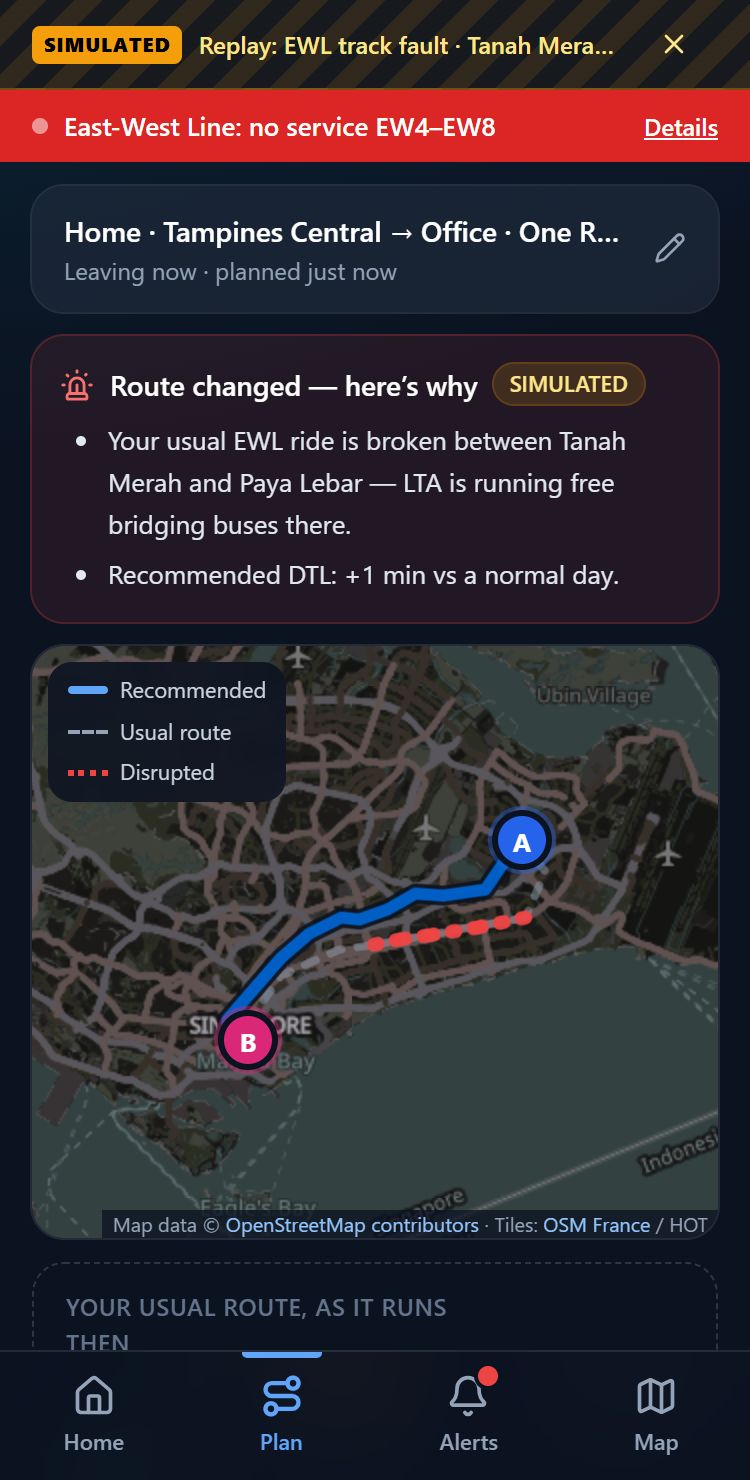
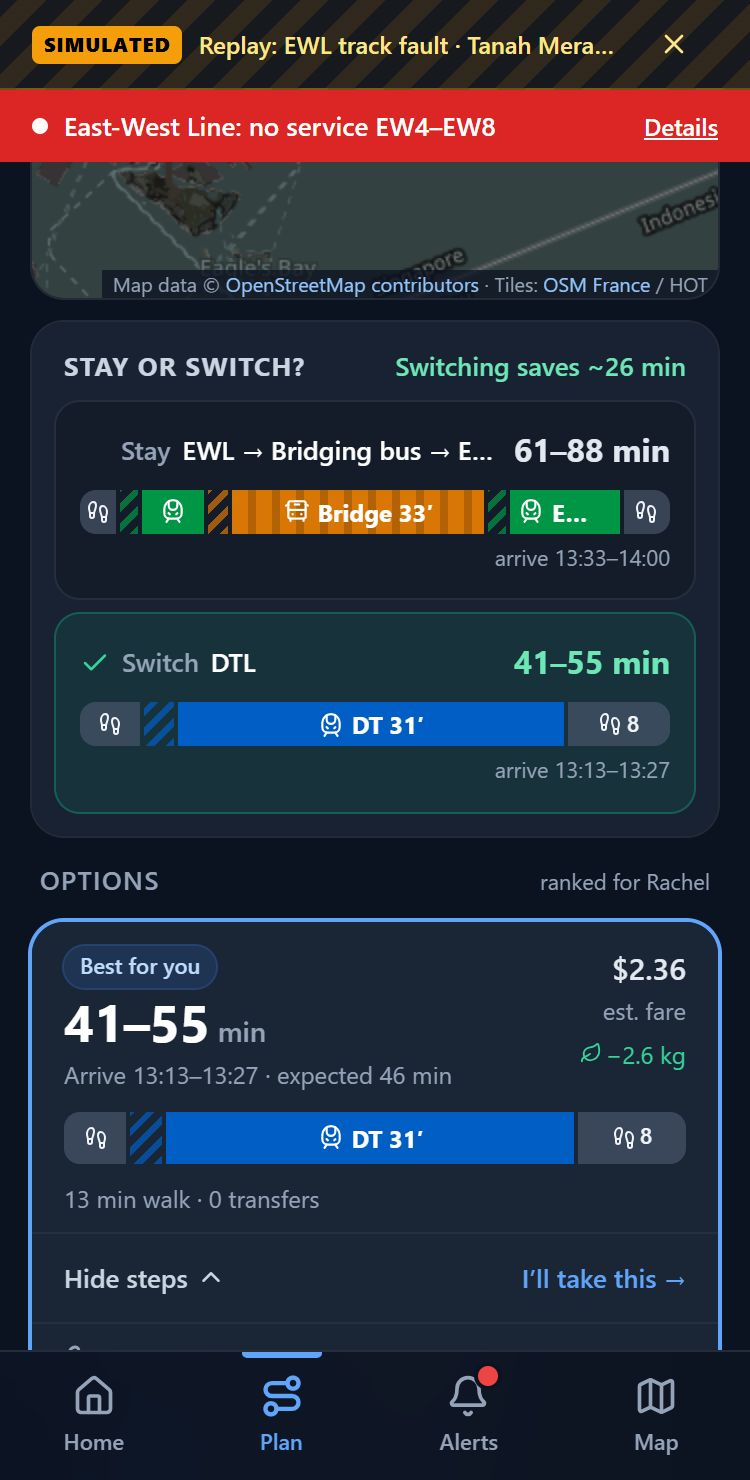
docs+ui: interaction-design mapping in WRITEUP, trip mode in demo GIF and stills; toasts move out of the thumb zone
Claude-Session: https://claude.ai/code/session_01Axb3RAMDN6seR8pfgjzdvZ

diff --git a/client/src/components/Layout/Shell.tsx b/client/src/components/Layout/Shell.tsx
@@ -87,7 +87,7 @@ function StatusBanners() {
 function Toasts() {
   const { toasts, dismissToast } = useStore();
   return (
-    <div className="pointer-events-none fixed inset-x-0 bottom-20 z-[1002] flex flex-col items-center gap-2 px-4">
+    <div className="pointer-events-none fixed inset-x-0 z-[1002] flex flex-col items-center gap-2 px-4" style={{ top: 'calc(var(--banner-h, 0px) + 10px)' }}>
       {toasts.map((t) => (
         <button
           key={t.id}

diff --git a/scripts/make-gif.py b/scripts/make-gif.py
@@ -15,7 +15,7 @@ for f in files:
 frames[0].save("docs/demo.gif", save_all=True, append_images=frames[1:], duration=durations, loop=0, optimize=True)
 print("docs/demo.gif", os.path.getsize("docs/demo.gif") // 1024, "KB,", len(frames), "frames")
 
-stills = {"home-live": "home", "home-sim": "home-sim", "plan-why": "plan", "alerts-disruption": "alerts", "map-crowd": "map"}
+stills = {"home-live": "home", "home-sim": "home-sim", "plan-stay": "plan", "trip": "trip", "alerts-disruption": "alerts", "map-crowd": "map"}
 for f in files:
     for key, name in stills.items():
         if re.search(rf"\d+-{key}-h", f):

diff --git a/README.md b/README.md
@@ -17,9 +17,9 @@ NEBULA X 2026 · Problem Statement 2 — Smart Commuter Companion · built for *
 　＼二つ
 ```
 
-| Normal day: all clear | EWL fault (replay): one-line action | Why it changed: usual vs new route | Alerts: live feed + labelled replay |
-|---|---|---|---|
-| ![Home](docs/home.jpg) | ![Home, disrupted](docs/home-sim.jpg) | ![Plan](docs/plan.jpg) | ![Alerts](docs/alerts.jpg) |
+| Normal day: leave as usual | EWL fault (replay): one action | Stay or switch? | Trip mode | Network + live crowding |
+|---|---|---|---|---|
+| ![Home](docs/home.jpg) | ![Home, disrupted](docs/home-sim.jpg) | ![Stay or switch](docs/plan.jpg) | ![Trip](docs/trip.jpg) | ![Map](docs/map.jpg) |
 
 - **Demo walkthrough:** [`docs/demo.gif`](docs/demo.gif), a phone-sized capture of the journey below.
 - **Write-up** (persona, architecture, assumptions, limitations, how every number was measured): [`WRITEUP.md`](WRITEUP.md)
@@ -30,7 +30,11 @@ NEBULA X 2026 · Problem Statement 2 — Smart Commuter Companion · built for *
 
 - **Proactive commute verdict.** The Home screen re-plans Rachel's saved commute every 60 s against live conditions. It shows one of three states: **All clear**, **Heads-up**, or **Take X today**. She only gets the red card when her trip gets worse by more than her own threshold (10 min by default). She can opt in to a device notification when that happens.
 - **Door-to-door route planning that reacts to the network.** It combines rail, bus and walking, and each option carries a **time range**, not a single number. Walking legs are routed on OpenStreetMap footpaths, and bus waits come from live LTA arrivals. When conditions change, the plan changes and **says why**.
-- **Visual trade-off.** The map shows the recommended route, your usual route (dashed), and the disrupted stretch (red). Every option shows expected arrival, fare estimate, crowding at boarding, live bus load and CO₂ saved.
+- **Visual trade-off.** A **Stay or switch?** card puts your usual route (as it runs today) next to the recommendation, each with a proportional walk/wait/ride bar and an arrival window. The map shows both routes with the disrupted stretch in red. Every option shows expected arrival, fare estimate, crowding at boarding, live bus load and CO₂ saved.
+- **Best time to leave.** A one-glance strip of LTA's 30-min crowd forecast for your boarding platform, e.g. "Crowded when you board · moderate at 8:30 am".
+- **Trip mode for the platform.** "I'll take this" opens step-by-step guidance with big text and a thumb-zone *Next* button. It shows a live bus countdown at your stop and watches the rest of your route: *"Disruption ahead → Re-plan from here"*. It keeps working with no signal.
+- **Inspectable reasoning.** Every alert card carries a one-line source (e.g. `TrainServiceAlerts · EWL EW4–EW8 · Status 2`, `PCDForecast · Tampines · level h`), so you can check why the app said what it said.
+- **Your own commute.** Rachel is a demo persona; set your own home, work, days and times, or switch to Arjun / Mdm Lim.
 - **Planned and unplanned events.**
   - Unplanned: live `TrainServiceAlerts` affected segments block or slow those rail edges. LTA's own mitigation (free public bus stations and bridging buses) is read from the feed and routed on.
   - Planned: the notice stream (e.g. today's real *"Bukit Panjang LRT closed on 20 Sep"*) is classified and checked against your route.
@@ -88,9 +92,10 @@ Tested: a fresh `git clone` → `pnpm install` → `pnpm start` with an empty ca
 3. **Home** turns red: **Take DTL today**, with the reason in one line and the first instruction ("Walk 5 min, then Downtown Line from Tampines to Telok Ayer").
 4. Tap **Show me the new route**. The map draws the usual EWL route dashed with the cut segment in red, next to the recommended route. The *Route changed — here's why* panel explains the change. Each option shows a time range, live bus ETA and load, and crowding.
 5. Back in **Alerts**, switch to **EWL signalling fault (+20 min delays)**. It is now a *delay*, not a cut, and the engine compares it against Rachel's 10-min threshold. Open the persona switcher (*Planning for Rachel ▾*) to try a 5-min or 20-min threshold and see when it stops interrupting.
-6. **Map** tab: every MRT/LRT station is coloured by **live** LTA crowd level. Search a stop (e.g. `Raffles Pl`, `75009`) or zoom in and tap a green stop for live arrivals.
-7. Stop the simulation with the ✕ on the amber banner.
-8. **Planned works, from a real LTA notice (not simulated).** The 19 Sep live feed announces that the *Bukit Panjang LRT will be closed on 20 Sep and 27 Sep 2026*. Go to **Plan**, set From: `Senja` (Senja LRT), To: `Choa Chu Kang MRT`, **Tomorrow at 08:00**, then tap **Plan**. You get *"Planned closure: Bukit Panjang LRT is closed on Sun, 20 Sept for renewal works — shuttle buses replace it · Recommended Bus 190"*, with the usual LRT ride dashed on the map. This is date-aware: leave today and the LRT is used as normal. Once that notice has left the live feed, use the Alerts replay **Planned: Bukit Panjang LRT closed tomorrow**. It re-issues the same notice text with rolling dates and is labelled SIMULATED.
+6. On the new route, tap **I'll take this →** to open **Trip mode**: the current step in big type, the next step, and a live bus countdown where there is a bus. It re-checks the remaining legs against the live feed.
+7. **Map** tab: the MRT/LRT network is drawn in line colours, with any disrupted segment in red. Every station is filled by its **live** LTA crowd level. Search a stop (e.g. `Raffles Pl`, `75009`) or zoom in and tap a green stop for live arrivals.
+8. Stop the simulation with the ✕ on the amber banner.
+9. **Planned works, from a real LTA notice (not simulated).** The 19 Sep live feed announces that the *Bukit Panjang LRT will be closed on 20 Sep and 27 Sep 2026*. Go to **Plan**, set From: `Senja` (Senja LRT), To: `Choa Chu Kang MRT`, **Tomorrow at 08:00**, then tap **Plan**. You get *"Planned closure: Bukit Panjang LRT is closed on Sun, 20 Sept for renewal works — shuttle buses replace it · Recommended Bus 190"*, with the usual LRT ride dashed on the map. This is date-aware: leave today and the LRT is used as normal. Once that notice has left the live feed, use the Alerts replay **Planned: Bukit Panjang LRT closed tomorrow**. It re-issues the same notice text with rolling dates and is labelled SIMULATED.
 
 ---
 

diff --git a/WRITEUP.md b/WRITEUP.md
@@ -98,6 +98,20 @@ A deterministic rules engine. Every card traces back to a feed field and a thres
 
 **Use of AI (PS2 §3.3.1).** We deliberately used rules, not a model. Every recommendation must be explainable in one sentence, reproducible by a judge from the same feed, and must keep working offline. Nothing needs a paid API. AI (Claude Code) was used to *build* the app, not inside it.
 
+## 4b. Interaction design, mapped to the brief (§3.2.3)
+
+| Brief asks for | What's on screen |
+|---|---|
+| Route on a map, affected portion distinguished | Route map: recommended route solid in line colours, usual route dashed, disrupted stretch as a red dotted overlay with a tooltip ("No train service"). The Map tab draws the whole MRT/LRT network in line colours with disrupted segments in red. |
+| Alternative shown against the original | **Stay or switch?** card: two rows (usual-as-it-runs-today vs recommended), each with a proportional journey bar, a time range and an arrival window. The headline states the saving, or "Your usual route is cut". |
+| Crowding readable in one second (3-level) | Every crowd reading uses the same three-bar glyph plus a word (Quiet / Moderate / Crowded), never colour alone. The Home crowd strip shows LTA's 30-min forecast for the boarding platform around your departure, with your slot outlined and a quieter slot suggested. |
+| Time and delay cost obvious | Options lead with a range ("41–55 min") and an arrival window; the journey bar splits walk / wait (hatched) / ride. Delays show as "+N min" and blocked legs are struck through. |
+| Works on a phone, in motion, one hand | 375 px first layout, bottom nav, ≥ 44 px touch targets. Primary actions sit in the thumb zone. **Trip mode** gives one step at a time in 22 px type and auto-advances by elapsed time when there's no signal. |
+| Every visual element earns its place | The hero shows one verdict, one instruction, one arrival time. The reroute is not repeated as a card. Low-priority notices collapse into "N notices checked — none need you". |
+| Accessibility | Text contrast ≥ 4.5:1 on cards (slate-400 or lighter on slate-800). A large-text mode scales every label (all sizes in rem). `prefers-reduced-motion` disables animation. State is never conveyed by colour alone (bars, words, ✓/✕ glyphs). |
+
+The verdict change (green → red) animates with a scale-in, a pulse on the card and a shake of the siren icon, because it is the one moment the commuter must not miss.
+
 ## 5. Planned vs unplanned events
 
 - **Planned closures are routed, not just listed.** `plannedClosuresOn()` reads whole-line closures with dates out of the live notice stream (e.g. *"Bukit Panjang LRT will be closed on 20 Sep and 27 Sep 2026 … use shuttle and regular bus services"*). When the departure date matches, the planner blocks that line and adds bridging-bus edges.
@@ -156,6 +170,8 @@ A deterministic rules engine. Every card traces back to a feed field and a thres
   - OneMap search is used without a token and may need registration in future. Station names still resolve locally.
 - **No server-sent Web Push.** Proactivity is in-app (verdict, cards, banner), plus an opt-in **device notification** fired by the page when the verdict turns red while the app is open or backgrounded. A production version would add Web Push (VAPID) at "leave-by − 15 min" so it works with the app closed.
 - **HTTPS for location.** "Current location" needs HTTPS on phones; see README for a tunnel.
+- **Trip mode has no GPS.** It advances by elapsed time plus manual "Next". A production version would snap to the nearest stop/station when located.
+- **Sheltered walkways not yet used.** `CoveredLinkWay` (DataMall geospatial layer) would turn "factor in shelter time" into a real routing signal for wet days; it ships as zipped SHP and was out of scope for this build.
 - **Not a native app.** Tested in Chrome with iPhone-SE-sized (375 px) emulation. It still needs a pass on a physical phone.
 
 ## 11. Beyond the brief
